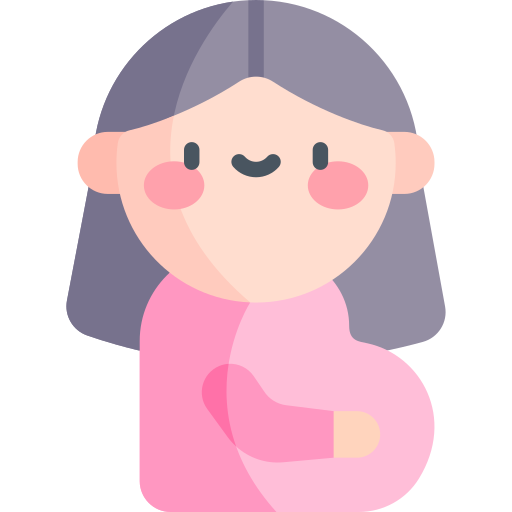
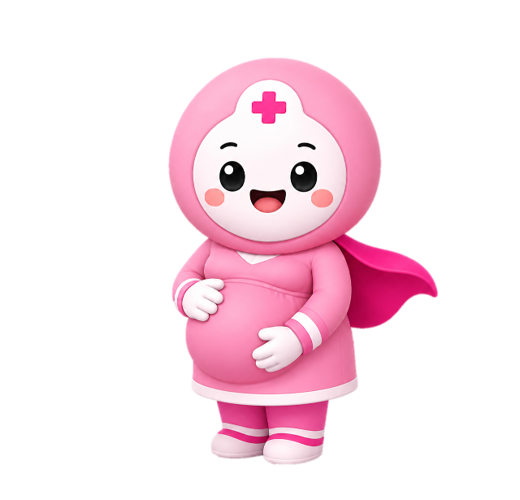
[FE/refactor] 홈 화면 소아 임산부 성인 이모티콘 마스코트로 변경

diff --git a/frontend/emergency-road-web/src/pages/home.jsx b/frontend/emergency-road-web/src/pages/home.jsx
@@ -2,7 +2,7 @@ import { useState } from "react";
 import "./Home.css";
 import location from "../assets/home/location.png"
 import general from "../assets/home/general.png"
-import children from "../assets/home/children.png"
+import pediatric from "../assets/home/pediatric.png"
 import pregnant from "../assets/home/pregnant.png"
 import { useNavigate } from "react-router-dom";
 import { useLocation } from "../features/hospitals/hooks/recommend/useLocation"; // 훅 import
@@ -12,13 +12,13 @@ function Home() {
   const { getLocation } = useLocation();
   const [message, setMessage] = useState("버튼을 눌러 내 주변 응급 병원을 확인하세요.");
 
-const handleCategoryClick = async (category) => {
+  const handleCategoryClick = async (category) => {
     setMessage("위치 정보를 가져오는 중입니다...");
-    
+
     try {
       // 훅이 위치 가져오는 복잡한 과정을 처리함
-      const { lat, lon } = await getLocation(); 
-      
+      const { lat, lon } = await getLocation();
+
       // 이동
       navigate(`/recommend/${category.toUpperCase()}?lat=${lat}&lon=${lon}`);
     } catch (err) {
@@ -30,55 +30,53 @@ const handleCategoryClick = async (category) => {
   return (
     <div className="mainpage">
       <div className="container">
-        <div className= "content">
-        <h1 className="title">지금 병원이 필요하신가요?</h1>
-        <p className="subtitle">
-          매우 위급한 상황이라면 즉시 119로 신고하세요.
-        </p>
-     <div className="info-box">
-        <img src={location} alt="location icon" className="location-img" />
-         정확한 추천을 위해 위치 권한 허용이 필요합니다.
+        <div className="content">
+          <h1 className="title">지금 병원이 필요하신가요?</h1>
+          <p className="subtitle">
+            매우 위급한 상황이라면 즉시 119로 신고하세요.
+          </p>
+          <div className="info-box">
+            <img src={location} alt="location icon" className="location-img" />
+            정확한 추천을 위해 위치 권한 허용이 필요합니다.
+          </div>
+
+          <div className="button-group">
+            <button
+              className="recommend-button pediatric"
+              onClick={() => handleCategoryClick("PEDIATRIC")}
+            >
+              <div className="btn-detail">
+                <img src={pediatric} alt="pediatric icon" className="pediatric-img" />
+                소아 응급
+              </div>
+            </button>
+
+            <button
+              className="recommend-button general"
+              onClick={() => handleCategoryClick("GENERAL")}
+            >
+              <div className="btn-detail">
+                <img src={general} alt="general icon" className="general-img" />
+                일반 응급
+              </div>
+            </button>
+
+            <button
+              className="recommend-button pregnant"
+              onClick={() => handleCategoryClick("PREGNANT")}
+            >
+              <div id ="btnDetail_wrap">
+              <div className="btn-detail">
+                <img src={pregnant} alt="pregnant icon" className="pregnant-img" />
+                임산부 응급
+              </div>
+              </div>
+            </button>
+          </div>
+
+          <p className="geo-message">{message}</p>
         </div>
-
-        <div className="button-group">
-          <button
-            className="recommend-button pediatric"
-           onClick={() => handleCategoryClick("PEDIATRIC")}
-          >
-             <div className="btn-detail">
-            {/* <span className="emoji">🧒</span> */}
-               <img src={children} alt="children icon" className="children-img" />
-               소아 응급
-               </div>
-          </button>
-
-          <button
-            className="recommend-button general"
-           onClick={() => handleCategoryClick("GENERAL")}
-          >
-            {/* <span className="emoji">🚑</span> */}
-            <div className="btn-detail">
-              <img src={general} alt="general icon" className="general-img" />
-               일반 응급
-            </div>
-          </button>
-
-          <button
-            className="recommend-button pregnant"
-             onClick={() => handleCategoryClick("PREGNANT")}
-          >
-            <div className="btn-detail">
-            {/* <span className="emoji">🤰</span> */}
-              <img src={pregnant} alt="pregnant icon" className="pregnant-img" />
-
-            임산부 응급
-            </div>
-          </button>
-        </div>
-
-        <p className="geo-message">{message}</p>
       </div>
-    </div>
     </div>
   );
 }

diff --git a/frontend/emergency-road-web/src/pages/Home.css b/frontend/emergency-road-web/src/pages/Home.css
@@ -68,18 +68,18 @@ body {
 }
 
 /* 버튼 내 공통 아이콘 간격 및 위치 조절 */
- .children-img, .general-img, .pregnant-img{
+ .pediatric-img, .general-img, .pregnant-img{
     width: 20px;
-    margin-right: 10px;
+    margin-right: 5px;
     position: relative;
     bottom: 1px;
     right: 2px;
 }
 
 /* 버튼 내 아이콘의 실제 표시 크기 고정 */
-.children-img, .general-img, .pregnant-img {
-    width: 50px;        
-    height: 50px;
+.pediatric-img, .general-img, .pregnant-img {
+    width: 80px;        
+    height: 80px;
     flex-shrink: 0;
 }
 /* 버튼들을 묶는 그룹 레이아웃 */
@@ -118,6 +118,10 @@ body {
     gap: 15px;           
     position: relative;
     right: 7px;
+}
+
+#btnDetail_wrap{
+    margin-left: 15px;
 }
 
 /* 버튼 hover 시 위로 살짝 떠오르는 효과 */
